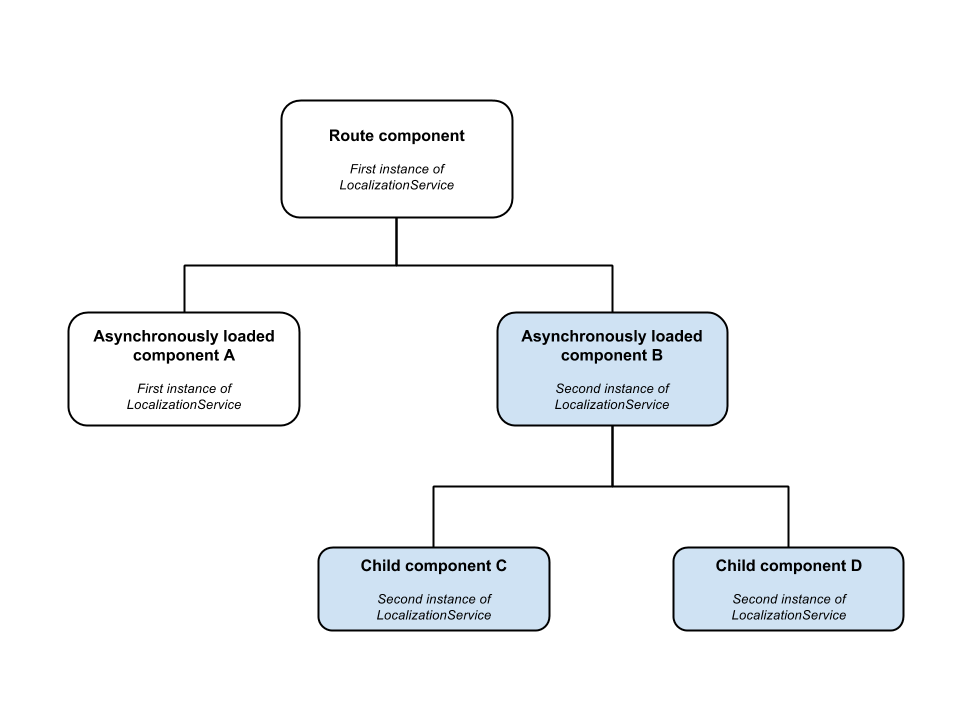
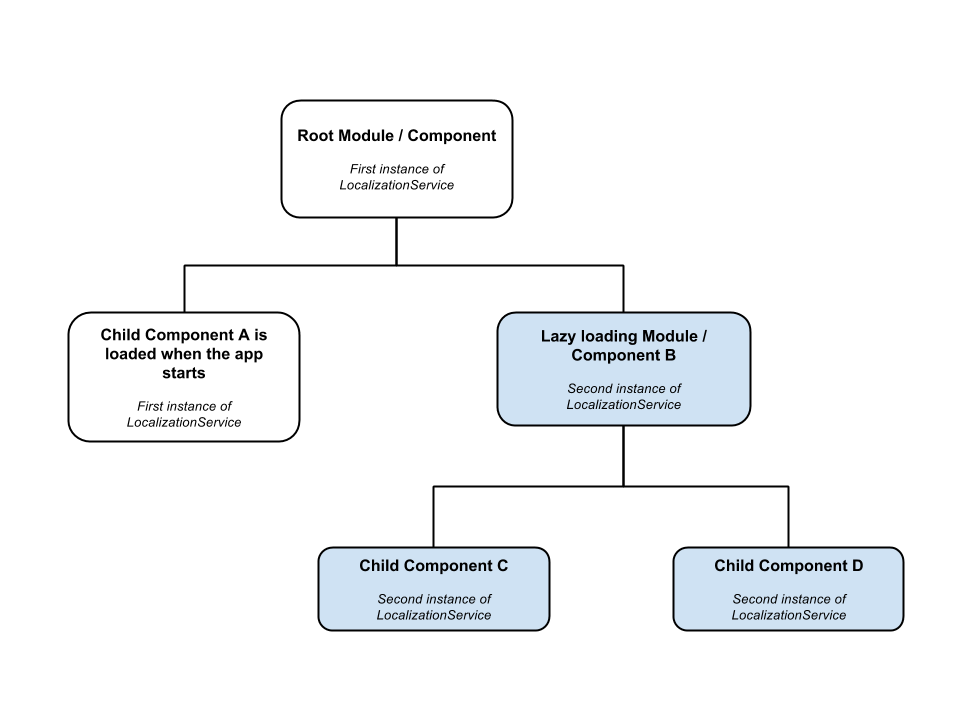
Update documentation

diff --git a/doc/spec.md b/doc/spec.md
@@ -1,5 +1,5 @@
 # Angular 2 Localization library specification
-Library version: 0.8.10
+Library version: 0.9.0
 
 ## Table of contents
 * [1 The library structure](#1)
@@ -15,6 +15,7 @@ Library version: 0.8.10
     * [2.3 Quick use](#2.3)
     * [2.4 List](#2.4)
         * [2.4.1 Sorting & search](#2.4.1)
+    * [2.5 Getting the translation in component class](#2.5)
 * [3 Scenarios](#3)
     * [3.1 First scenario: you need to localize dates and numbers, but no messages](#3.1)
     * [3.2 Second scenario: you only need to translate messages](#3.2)
@@ -45,19 +46,19 @@ Library version: 0.8.10
 ## <a name="1"/>1 The library structure
 This library has the following classes:
 
-Name | Type | Contract
----- | -----| --------
-`LocaleService` | Service | Defines language, default locale & currency
-`LocalizationService` | Service | Gets the translation data and performs operations
-`Locale` | Service | Provides the methods for localization
-`LocaleParser` | Service | Parses a string and returns a number by default locale
-`IntlSupport` | Service | Provides the methods to check if Intl is supported
-`TranslatePipe` | Pipe | Translates messages
-`LocaleDatePipe` | Pipe | Localizes dates
-`LocaleDecimalPipe` | Pipe | Localizes decimal numbers
-`LocalePercentPipe` | Pipe | Localizes percent numbers
-`LocaleCurrencyPipe` | Pipe | Localizes currencies
-`LocaleNumberValidator` | Directive | Validates a number by default locale
+Module | Class | Type | Contract
+------ | ----- | -----| --------
+`LocaleModule` | `LocaleService` | Service | Defines language, default locale & currency
+`LocaleModule` | `LocaleDatePipe` | Pipe | Localizes dates
+`LocaleModule` | `LocaleDecimalPipe` | Pipe | Localizes decimal numbers
+`LocaleModule` | `LocalePercentPipe` | Pipe | Localizes percent numbers
+`LocaleModule` | `LocaleCurrencyPipe` | Pipe | Localizes currencies
+`LocaleModule` | `LocaleNumberValidator` | Directive | Validates a number by default locale
+`LocalizationModule` | `LocalizationService` | Service | Gets the translation data and performs operations
+`LocalizationModule` | `TranslatePipe` | Pipe | Translates messages
+ | `Locale` | Service | Provides the methods for localization
+ | `LocaleParser` | Service | Parses a string and returns a number by default locale
+ | `IntlSupport` | Service | Provides the methods to check if Intl is supported
 
 ## <a name="2"/>2 Getting the translation
 To get the translation, this library uses pure pipes. To know the advantages over impure pipes, please see [here](https://angular.io/docs/ts/latest/guide/pipes.html). 
@@ -65,37 +66,10 @@ To get the translation, this library uses pure pipes. To know the advantages ove
 Type | Format | Syntax
 ---- | ------ | ------
 Message | String | `expression | translate:lang`
-Date | Date/Number | `expression | localedate[:defaultLocale[:format]]`
-Number | Decimal | `expression | localedecimal[:defaultLocale:[digitInfo]]`
-Number | Percentage | `expression | localepercent[:defaultLocale:[digitInfo]]`
-Number | Currency | `expression | localecurrency[:defaultLocale[:currency[:symbolDisplay[:digitInfo]]]]`
-
-Declare the pipes you need in `AppModule`:
-```TypeScript
-// Pipes.
-import {
-    TranslatePipe,
-    LocaleDatePipe,
-    LocaleDecimalPipe,
-    LocalePercentPipe,
-    LocaleCurrencyPipe
-} from 'angular2localization/angular2localization';
-
-@NgModule({
-    ...
-    declarations: [
-        ...
-        TranslatePipe,
-        LocaleDatePipe,
-        LocaleDecimalPipe,
-        LocalePercentPipe,
-        LocaleCurrencyPipe
-    ],
-    ...
-})
-
-export class AppModule { }
-```
+Date | Date/Number | `expression | localeDate[:defaultLocale[:format]]`
+Number | Decimal | `expression | localeDecimal[:defaultLocale:[digitInfo]]`
+Number | Percentage | `expression | localePercent[:defaultLocale:[digitInfo]]`
+Number | Currency | `expression | localeCurrency[:defaultLocale[:currency[:symbolDisplay[:digitInfo]]]]`
 
 ### <a name="2.1"/>2.1 Messages
 ```
@@ -152,14 +126,14 @@ When specifying the `features`, you have to specify what locale, or locales to l
 
 #### <a name="2.2.1"/>2.2.1 Dates
 ```
-expression | localedate[:defaultLocale[:format]]
+expression | localeDate[:defaultLocale[:format]]
 ```
 where `expression` is a date object or a number (milliseconds since UTC epoch) and `format` indicates which date/time components to include. 
 See Angular 2 [DatePipe](https://angular.io/docs/ts/latest/api/common/index/DatePipe-class.html) for further information.
 
 For example, to get the local date, add in the template:
 ```Html
-{{ today | localedate:defaultLocale:'fullDate' }}
+{{ today | localeDate:defaultLocale:'fullDate' }}
 ```
 and include in the component:
 ```TypeScript
@@ -183,36 +157,36 @@ export class AppComponent {
 
 #### <a name="2.2.2"/>2.2.2 Decimals
 ```
-expression | localedecimal[:defaultLocale:[digitInfo]]
+expression | localeDecimal[:defaultLocale:[digitInfo]]
 ```
 where `expression` is a number and `digitInfo` has the following format: `{minIntegerDigits}.{minFractionDigits}-{maxFractionDigits}`. 
 See Angular 2 [DecimalPipe](https://angular.io/docs/ts/latest/api/common/index/DecimalPipe-class.html) for further information.
 
 For example, to get the local decimal, add in the template:
 ```Html
-{{ pi | localedecimal:defaultLocale:'1.5-5' }}
+{{ pi | localeDecimal:defaultLocale:'1.5-5' }}
 ```
 and include `get defaultLocale()` in the component.
 
 #### <a name="2.2.3"/>2.2.3 Percentages
 ```
-expression | localepercent[:defaultLocale:[digitInfo]]
+expression | localePercent[:defaultLocale:[digitInfo]]
 ```
 For example, to get the local percentage, add in the template:
 ```Html
-{{ a | localepercent:defaultLocale:'1.1-1' }}
+{{ a | localePercent:defaultLocale:'1.1-1' }}
 ```
 and include `get defaultLocale()` in the component.
 
 #### <a name="2.2.4"/>2.2.4 Currencies
 ```
-expression | localecurrency[:defaultLocale[:currency[:symbolDisplay[:digitInfo]]]]
+expression | localeCurrency[:defaultLocale[:currency[:symbolDisplay[:digitInfo]]]]
 ```
 where `symbolDisplay` is a boolean indicating whether to use the currency symbol (e.g. $) or the currency code (e.g. USD) in the output. 
 
 For example, to get the local currency, add in the template:
 ```Html
-{{ b | localecurrency:defaultLocale:currency:true:'1.2-2' }}
+{{ b | localeCurrency:defaultLocale:currency:true:'1.2-2' }}
 ```
 and include `get defaultLocale()` and `get currency()` in the component:
 ```TypeScript
@@ -248,8 +222,8 @@ Now you can localize a list simply. For example:
         <md-list>
             <md-list-item>
                 <h3 md-line>{{ item.position | translate:lang }}</h3>
-                <p md-line>{{ item.salary | localecurrency:defaultLocale:currency:true:'1.0-0' }}</p>
-                <p md-line>{{ item.startDate | localedate:defaultLocale:'mediumDate' }}</p>
+                <p md-line>{{ item.salary | localeCurrency:defaultLocale:currency:true:'1.0-0' }}</p>
+                <p md-line>{{ item.startDate | localeDate:defaultLocale:'mediumDate' }}</p>
             </md-list-item>
         </md-list>
     </md-card-content>
@@ -267,17 +241,51 @@ These methods use the [Intl.Collator](https://developer.mozilla.org/en-US/docs/W
 
 *N.B. This feature is not supported by all browsers, even with the use of `Intl.js`.*
 
-## <a name="3"/>3 Scenarios
-Add services you need in `AppModule`:
+### <a name="2.5"/>2.5 Getting the translation in component class
+If you need to get the translation in component class, [LocalizationService](#7.2) has the following methods:
+* `translate(key: string): string;`
+* `translateAsync(key: string): Observable<string>;`
+
+But if you need to get the translation when the selected language changes, you must subscribe to the following event:
+* `translationChanged: EventEmitter<boolean>;`
+
+For example:
 ```TypeScript
-// Services.
-import { LocaleService, LocalizationService } from 'angular2localization/angular2localization';
+@Component({
+    ...
+    template: '<h1>{{ title }}</h1>'
+})
+export class HomeComponent {
+
+    // Initializes the variable 'title' with the current translation at the time of the component loading.
+    public title: string = this.localization.translate('TITLE');
+
+    constructor(public localization: LocalizationService) {
+
+        this.localization.translationChanged.subscribe(
+
+            // Refresh the variable 'title' with the new translation when the selected language changes.
+            () => { this.title = this.localization.translate('TITLE'); }
+
+        );
+
+    }
+
+}
+```
+*N.B. In the bootstrap component and in its children you have to subscribe to the `translationChanged` event to detect the first asynchronous loading of the translation data.*
+
+## <a name="3"/>3 Scenarios
+Import the modules you need in `AppModule`:
+```TypeScript
+// Angular 2 Localization.
+import { LocaleModule, LocalizationModule } from 'angular2localization/angular2localization';
 
 @NgModule({
-    ...
-    providers: [
-        LocaleService,
-        LocalizationService
+    imports: [
+        ...
+        LocaleModule.forRoot(), // New instance of LocaleService.
+        LocalizationModule.forRoot() // New instance of LocalizationService.
     ],
     ...
 })
@@ -453,20 +461,27 @@ The `LocaleService` will try to use the Web Storage, otherwise it will attempt t
 *N.B. Unlike the cookie, the Local Storage doesn't expire.*
 
 ## <a name="5"/>5 Lazy routing
-If you use a `Router` in an extended application, you can create an instance of the `LocalizationService` for every asynchronously loaded component, as shown:
+If you use a `Router` in an extended application, you can create an instance of the `LocalizationService` with its own translation data for every lazy loaded module/component, as shown:
 ![LazyRouting](images/LazyRouting.png)
-Each instance must be injected, and can be directly or asynchronously loaded, as in this example:
+Each instance must be injected, and can be directly or asynchronously loaded.
+For example, if you have a feature module:
 ```TypeScript
-@Component({
-    ...
-    providers: [LocalizationService] // Inherited by all descendants.
+@NgModule({
+    imports: [
+        ...
+        LocaleModule, // LocaleService is singleton.
+        LocalizationModule.forRoot() // New instance of LocalizationService.
+    ],
+    declarations: [ListComponent]
 })
+```
 
+```TypeScript
 export class ListComponent {
 
     constructor(public localization: LocalizationService) {
 
-        // Instantiates a new LocalizationService for this component and for its descendants.
+        // Initializes LocalizationService: asynchronous loading.
         this.localization.translationProvider('./resources/locale-list-'); // Required: initializes the translation provider with the given path prefix.
         this.localization.updateTranslation(); // Need to update the translation.
 
@@ -543,17 +558,17 @@ This is the view:
     <md-card-content>
         <form [formGroup]="numberForm" (ngSubmit)="onSubmit(numberForm.value)">
             <div>
-                <md-input placeholder="{{ 0 | localedecimal:defaultLocale:digits }}" [formControl]="decimal" (keyup)="decimal.valid ? parsedValue : parsedValue = null"
+                <md-input placeholder="{{ 0 | localeDecimal:defaultLocale:digits }}" [formControl]="decimal" (keyup)="decimal.valid ? parsedValue : parsedValue = null"
                     style="width: 100%"></md-input>
 
                 <div *ngIf="decimal.hasError('format') && decimal.value != ''" style="color: #D32F2F;">
-                    {{ 'NUMBER_IS_INVALID' | translate:lang }} {{ 0 | localedecimal:defaultLocale:digits }}
+                    {{ 'NUMBER_IS_INVALID' | translate:lang }} {{ 0 | localeDecimal:defaultLocale:digits }}
                 </div>
                 <div *ngIf="decimal.hasError('minValue') && decimal.value != ''" style="color: #D32F2F;">
-                    {{ 'MIN_VALUE_ERROR' | translate:lang }} {{ minValue | localedecimal:defaultLocale:digits }}
+                    {{ 'MIN_VALUE_ERROR' | translate:lang }} {{ minValue | localeDecimal:defaultLocale:digits }}
                 </div>
                 <div *ngIf="decimal.hasError('maxValue') && decimal.value != ''" style="color: #D32F2F;">
-                    {{ 'MAX_VALUE_ERROR' | translate:lang }} {{ maxValue | localedecimal:defaultLocale:digits }}
+                    {{ 'MAX_VALUE_ERROR' | translate:lang }} {{ maxValue | localeDecimal:defaultLocale:digits }}
                 </div>
             </div>
             <br>
@@ -612,7 +627,7 @@ export class ValidationComponent extends Locale {
 
 }
 ```
-Finally, import `ReactiveFormsModule` and declare `LocaleNumberValidator` in `AppModule`.
+Finally, import `ReactiveFormsModule` in `AppModule`.
 
 ## <a name="7"/>7 Services API
 
@@ -649,6 +664,7 @@ Method | Function
 ### <a name="7.2"/>7.2 LocalizationService
 Property | Value
 ---------- | -----
+`translationChanged: EventEmitter<boolean>;` | Output for event translation changed
 `languageCode: string;` | The language code for the service
 `loadingMode: LoadingMode;` | The loading mode for the service
 `serviceState: ServiceState;` | The service state
@@ -760,9 +776,8 @@ This is an example in ES5 for the [First scenario](#3.1). The `AppModule`:
 (function (app) {
   app.AppModule =
     ng.core.NgModule({
-      imports: [ng.platformBrowser.BrowserModule],
-      declarations: [app.AppComponent, ng.angular2localization.LocaleDatePipe],
-      providers: [ng.angular2localization.LocaleService],
+      imports: [ng.platformBrowser.BrowserModule, ng.angular2localization.LocaleModule.forRoot()],
+      declarations: [app.AppComponent],
       bootstrap: [app.AppComponent]
     })
       .Class({
@@ -776,7 +791,7 @@ And the `AppComponent`:
   app.AppComponent =
     ng.core.Component({
       selector: 'app-component',
-      template: `<h1>{{ today | localedate:defaultLocale:'fullDate' }}`
+      template: `<h1>{{ today | localeDate:defaultLocale:'fullDate' }}`
     })
       .Class({
         constructor: [ng.angular2localization.LocaleService, function (locale) {

diff --git a/README.md b/README.md
@@ -10,7 +10,7 @@ Because it is only a branch of Angular 2, the goal is the complete integration w
 
 Get the changelog by [releases](https://github.com/robisim74/angular2localization/releases).
 
-Compatible with Angular 2.0.0-rc.5.
+Angular version: 2.0.0-rc.5.
 
 ## Installing
 You can add `angular2localization` to your project using `npm`:
@@ -23,12 +23,12 @@ npm install --save angular2localization
 ```JavaScript
 var map = {
     ...
-    'angular2localization': 'node_modules/angular2localization'
+    'angular2localization': 'node_modules'
 };
 
 var packages = {
     ...
-    'angular2localization': { main: '/bundles/angular2localization.umd.min.js', defaultExtension: 'js' }
+    'angular2localization/angular2localization': { main: '/bundles/angular2localization.umd.min.js', defaultExtension: 'js' }
 };
 ```
 #### Angular-CLI
